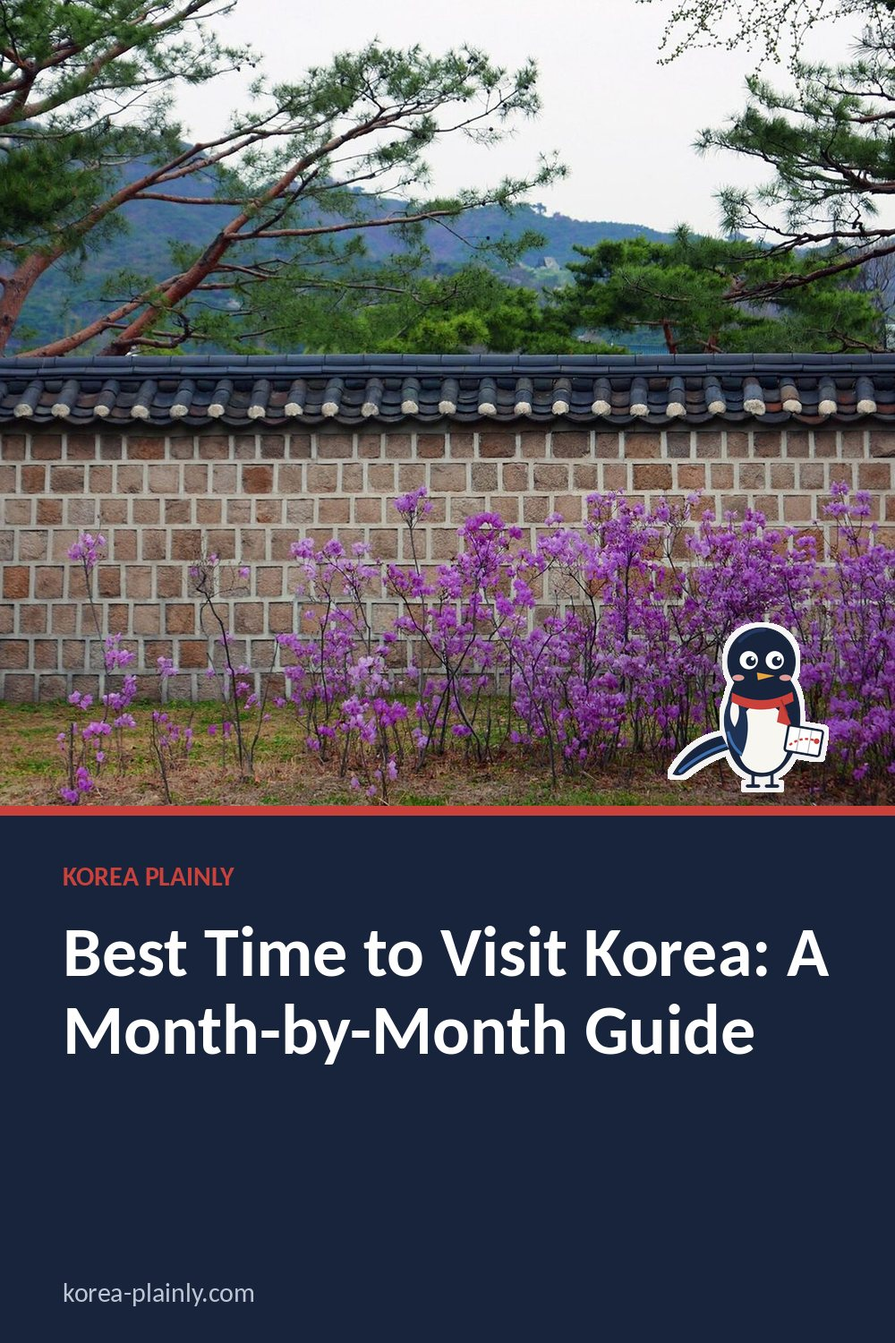
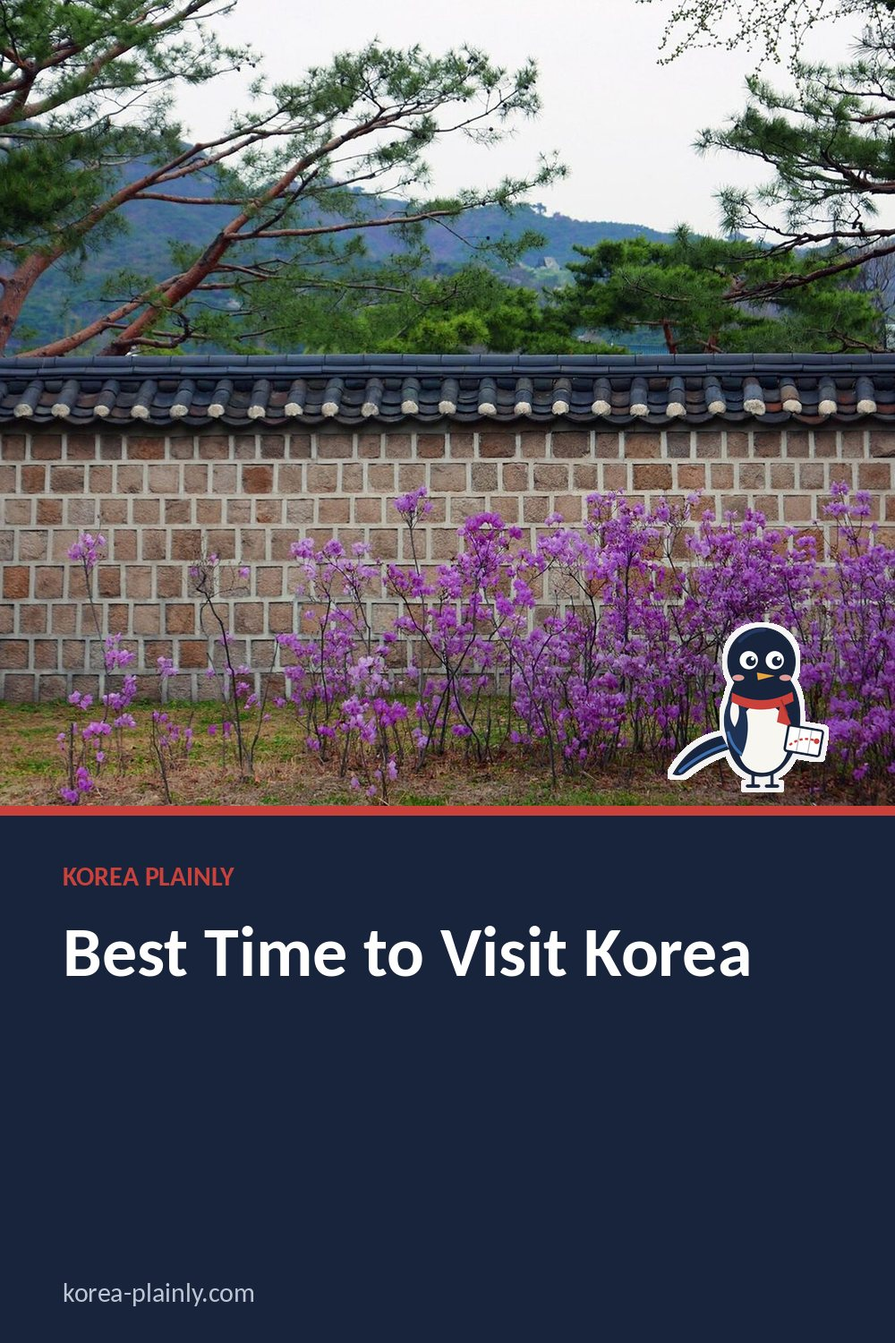
Best time guide: target 'what month is autumn in south korea'; topics: add Busan with kids gap
- best-time-to-visit-korea: new title/h1/meta, sections on when autumn and spring start,
  fine-dust tip, holiday closures, city weather differences; FAQ leads with the autumn question.
- korea-trip-package-vs-diy: fix cover alt text to describe the actual photo.
- topics.json: 'Things to Do in Busan with Kids' (keyword gap) moved to the front of unused topics.

Claude-Session: https://claude.ai/code/session_01MMQnqG6QkzgzGygJwpjXXF

Changed region(s): [[0.062, 0.736, 0.837, 0.7973], [0.837, 0.6747, 0.93, 0.736]]

diff --git a/best-time-to-visit-korea.html b/best-time-to-visit-korea.html
@@ -11,11 +11,11 @@
 >
 
 <link rel="stylesheet" href="style.css?v=20261015-1">
-<title>Best Time to Visit Korea: A Month-by-Month Guide | Korea Plainly</title>
+<title>Best Time to Visit Korea: Month-by-Month Guide and What Month Autumn Starts</title>
 
 <meta
   name="description"
-  content="When to visit South Korea: the best months for weather, blossoms, autumn leaves, festivals, skiing and lower prices, with a guide to every month and holidays to plan around."
+  content="Best months to visit South Korea, what month autumn starts, blossom and leaf timing, holidays to plan around and quieter months, with a guide to every month."
 >
 <link
   rel="canonical"
@@ -29,12 +29,12 @@
 
 <meta
   property="og:title"
-  content="Best Time to Visit Korea: A Month-by-Month Guide"
+  content="Best Time to Visit Korea: Month-by-Month Guide and What Month Autumn Starts"
 >
 
 <meta
   property="og:description"
-  content="When to visit South Korea: the best months for weather, blossoms, autumn leaves, festivals, skiing and lower prices, with a guide to every month and holidays to plan around."
+  content="Best months to visit South Korea, what month autumn starts, blossom and leaf timing, holidays to plan around and quieter months, with a guide to every month."
 >
 
 <meta
@@ -59,12 +59,12 @@
 
 <meta
   name="twitter:title"
-  content="Best Time to Visit Korea: A Month-by-Month Guide"
+  content="Best Time to Visit Korea: Month-by-Month Guide and What Month Autumn Starts"
 >
 
 <meta
   name="twitter:description"
-  content="When to visit South Korea: the best months for weather, blossoms, autumn leaves, festivals, skiing and lower prices, with a guide to every month and holidays to plan around."
+  content="Best months to visit South Korea, what month autumn starts, blossom and leaf timing, holidays to plan around and quieter months, with a guide to every month."
 >
 
 <meta
@@ -247,9 +247,9 @@ footer {
 <link rel="stylesheet" href="article.css?v=4">
 <link rel="stylesheet" href="https://fonts.googleapis.com/css2?family=DM+Sans:wght@400;500;600;700&family=Playfair+Display:ital,wght@0,600;1,600&display=swap">
 <link rel="icon" href="/favicon.svg" type="image/svg+xml">
-<script type="application/ld+json" id="kp-faq-ld">{"@context": "https://schema.org", "@type": "FAQPage", "mainEntity": [{"@type": "Question", "name": "What is the best month to visit Korea?", "acceptedAnswer": {"@type": "Answer", "text": "April, May and October are the favourites: comfortable weather, clear skies and blossoms or autumn colours. Late September and early November are great too."}}, {"@type": "Question", "name": "What is the cheapest time to visit Korea?", "acceptedAnswer": {"@type": "Answer", "text": "Usually January to early March (outside Seollal), June and late November, when demand is lower."}}, {"@type": "Question", "name": "When should I avoid visiting Korea?", "acceptedAnswer": {"@type": "Answer", "text": "Not really any month, but plan around Seollal and Chuseok if you want to travel between cities, and expect heat and rain in July and August."}}]}</script>
-<script type="application/ld+json" id="kp-article-ld">{"@context": "https://schema.org", "@type": "Article", "headline": "Best Time to Visit Korea: A Month-by-Month Guide", "description": "When to visit South Korea: the best months for weather, blossoms, autumn leaves, festivals, skiing and lower prices, with a guide to every month and holidays to plan around.", "image": ["https://korea-plainly.com/photo-best-time-to-visit-korea.jpg"], "datePublished": "2026-10-17", "dateModified": "2026-10-17", "author": {"@type": "Person", "name": "Jungsuk Kim", "url": "https://korea-plainly.com/about.html#author"}, "publisher": {"@type": "Organization", "name": "Korea Plainly", "url": "https://korea-plainly.com/"}, "mainEntityOfPage": "https://korea-plainly.com/best-time-to-visit-korea.html"}</script>
-<script type="application/ld+json" id="kp-breadcrumb-ld">{"@context": "https://schema.org", "@type": "BreadcrumbList", "itemListElement": [{"@type": "ListItem", "position": 1, "name": "Home", "item": "https://korea-plainly.com/"}, {"@type": "ListItem", "position": 2, "name": "Guides", "item": "https://korea-plainly.com/guides.html"}, {"@type": "ListItem", "position": 3, "name": "Travel Basics", "item": "https://korea-plainly.com/guides.html?category=travel"}, {"@type": "ListItem", "position": 4, "name": "Best Time to Visit Korea: A Month-by-Month Guide", "item": "https://korea-plainly.com/best-time-to-visit-korea.html"}]}</script>
+<script type="application/ld+json" id="kp-faq-ld">{"@context": "https://schema.org", "@type": "FAQPage", "mainEntity": [{"@type": "Question", "name": "What month is autumn in South Korea?", "acceptedAnswer": {"@type": "Answer", "text": "Autumn is September to November. It feels most like autumn from late September, October is usually the clearest and most comfortable month, and Seoul's leaves tend to peak in late October to early November."}}, {"@type": "Question", "name": "What is the best month to visit Korea?", "acceptedAnswer": {"@type": "Answer", "text": "April, May and October are the favourites for comfortable weather and blossoms or autumn colours. Late September and early November are great too, and often a little quieter."}}, {"@type": "Question", "name": "When should I avoid visiting Korea?", "acceptedAnswer": {"@type": "Answer", "text": "No month is a bad choice, but plan around Seollal and Chuseok if you want to travel between cities, and expect heavy rain in July and strong heat in August."}}]}</script>
+<script type="application/ld+json" id="kp-article-ld">{"@context": "https://schema.org", "@type": "Article", "headline": "Best Time to Visit Korea: Month-by-Month Guide and What Month Autumn Starts", "description": "Best months to visit South Korea, what month autumn starts, blossom and leaf timing, holidays to plan around and quieter months, with a guide to every month.", "image": ["https://korea-plainly.com/photo-best-time-to-visit-korea.jpg"], "datePublished": "2026-10-17", "dateModified": "2026-11-02", "author": {"@type": "Person", "name": "Jungsuk Kim", "url": "https://korea-plainly.com/about.html#author"}, "publisher": {"@type": "Organization", "name": "Korea Plainly", "url": "https://korea-plainly.com/"}, "mainEntityOfPage": "https://korea-plainly.com/best-time-to-visit-korea.html"}</script>
+<script type="application/ld+json" id="kp-breadcrumb-ld">{"@context": "https://schema.org", "@type": "BreadcrumbList", "itemListElement": [{"@type": "ListItem", "position": 1, "name": "Home", "item": "https://korea-plainly.com/"}, {"@type": "ListItem", "position": 2, "name": "Guides", "item": "https://korea-plainly.com/guides.html"}, {"@type": "ListItem", "position": 3, "name": "Travel Basics", "item": "https://korea-plainly.com/guides.html?category=travel"}, {"@type": "ListItem", "position": 4, "name": "Best Time to Visit Korea: Month-by-Month Guide and What Month Autumn Starts", "item": "https://korea-plainly.com/best-time-to-visit-korea.html"}]}</script>
 <meta property="article:published_time" content="2026-10-17">
 </head>
 
@@ -280,12 +280,12 @@ TRAVEL BASICS · PLANNING
 </div>
 
 <h1>
-Best Time to Visit Korea: A Month-by-Month Guide
+Best Time to Visit Korea: Month-by-Month Guide and What Month Autumn Starts
 </h1>
-<p class="kp-date" data-kp="date">By <a href="about.html#author">Jungsuk Kim</a>, Korea Plainly · Published <time datetime="2026-10-17">17 October 2026</time></p>
+<p class="kp-date" data-kp="date">By <a href="about.html#author">Jungsuk Kim</a>, Korea Plainly · Published <time datetime="2026-10-17">17 October 2026</time> · Updated <time datetime="2026-11-02">2 November 2026</time></p>
 
 <p class="dek">
-When to visit South Korea: the best months for weather, blossoms, autumn leaves, festivals, skiing and lower prices, with a guide to every month and holidays to plan around.
+Best months to visit South Korea, what month autumn starts, blossom and leaf timing, holidays to plan around and quieter months, with a guide to every month.
 </p>
 
 <img
@@ -297,51 +297,72 @@ When to visit South Korea: the best months for weather, blossoms, autumn leaves,
 
 <article>
 
-<p>Korea has four clear seasons, and each one changes the trip: blossoms in spring, beaches and heat in summer, red hills in autumn and snow and ski slopes in winter. Here is the short answer, then a quick look at every month with a link to its full guide.</p>
+<p>Korea has four distinct seasons, and the month you choose changes almost everything: what you wear, what you eat, how crowded the palaces are and even how much the hotel costs. Spring and autumn are the easy favourites, but every month has something going for it. Here is the short answer, what month autumn and spring actually arrive, and a quick look at all twelve months with links to their full guides.</p>
 
-<nav class="kp-toc" data-kp="toc" aria-label="On this page"><p>On this page</p><ol><li><a href="#the-short-answer">The short answer</a></li><li><a href="#month-by-month">Month by month</a></li><li><a href="#holidays-to-plan-around">Holidays to plan around</a></li><li><a href="#weather-at-a-glance">Weather at a glance</a></li><li><a href="#planning-your-trip">Planning your trip</a></li><li><a href="#faq">FAQ</a></li></ol></nav>
+<nav class="kp-toc" data-kp="toc" aria-label="On this page"><p>On this page</p><ol><li><a href="#the-short-answer">The short answer</a></li><li><a href="#what-month-is-autumn-in-south-korea">What month is autumn in South Korea?</a></li><li><a href="#when-does-spring-start">When does spring start?</a></li><li><a href="#month-by-month">Month by month</a></li><li><a href="#holidays-to-plan-around">Holidays to plan around</a></li><li><a href="#weather-at-a-glance">Weather at a glance</a></li><li><a href="#planning-your-trip">Planning your trip</a></li><li><a href="#faq">FAQ</a></li></ol></nav>
 <h2 id="the-short-answer">The short answer</h2>
 <ul>
-<li><strong>Best overall:</strong> spring (April to early June) and autumn (mid September to mid November). Comfortable, dry and beautiful.</li>
-<li><strong>Cherry blossoms:</strong> late March in the south, early to mid April in Seoul.</li>
-<li><strong>Autumn leaves:</strong> mid October in the mountains, late October to mid November in the cities.</li>
-<li><strong>Beaches:</strong> July and August, if you can handle the heat.</li>
-<li><strong>Skiing and winter festivals:</strong> late December to February.</li>
-<li><strong>Lower prices and fewer crowds:</strong> March, June, November and January to February, avoiding the big holidays.</li>
+<li><strong>Best overall:</strong> mid April to May, and late September to early November. Mild days, low humidity and mostly clear skies.</li>
+<li><strong>Cherry blossoms:</strong> late March in the south (Busan, Jinhae, Jeju), early April in Seoul.</li>
+<li><strong>Autumn leaves:</strong> mid October in the high mountains, late October to mid November in Seoul and the southern cities.</li>
+<li><strong>Beaches and summer festivals:</strong> July and August, if you can handle heat and humidity.</li>
+<li><strong>Snow, skiing and ice festivals:</strong> late December to February.</li>
+<li><strong>Quieter and often cheaper:</strong> March, June, late November and January to early February, outside the big holidays.</li>
 </ul>
+
+<h2 id="what-month-is-autumn-in-south-korea">What month is autumn in South Korea?</h2>
+<p>Officially, autumn in South Korea runs from <strong>September to November</strong>, but it does not feel like autumn on the first of September. Early September is often still warm and sticky, and typhoons can brush the south. The real change usually comes in the second half of September, when the humidity drops and mornings turn fresh.</p>
+<p>October is the heart of the season: crisp, sunny and rarely rainy, which is why many Koreans call it the best month of the year. Leaves turn first on high peaks such as Seoraksan (usually mid October) and then work their way down and south. In Seoul, the ginkgo trees and palace maples are usually at their best from late October into the first week or two of November. By late November, the trees are mostly bare and Seoul's mornings can drop close to freezing.</p>
+<p>If autumn colours are the reason for your trip, aim for the last week of October or the first week of November in Seoul, and check our <a href="korea-autumn-foliage-2026.html">autumn foliage guide</a> for where to go. Timing can shift by a week or more from year to year.</p>
+
+<h2 id="when-does-spring-start">When does spring start?</h2>
+<p>Spring runs roughly from <strong>March to May</strong>. March is still cool, especially in Seoul, where you will want a proper jacket. Blossoms move north through the country: forsythia and plum first, then cherry blossoms in late March in the south and around the first ten days of April in Seoul. May is warm, green and settled, though sunny days can reach the high 20s°C by the end of the month.</p>
+<p>One thing locals check in spring is the fine dust (<em>misemeonji</em>) forecast. Some days in March and April are hazy, and many people wear a mask outdoors when the reading is poor. Weather apps and Naver show the daily level. See our <a href="korea-cherry-blossom-2027.html">cherry blossom guide</a> for the best spots and expected timing.</p>
 
 <h2 id="month-by-month">Month by month</h2>
 <ul>
-<li><a href="korea-in-january.html"><strong>January</strong></a>: the coldest month. Dry, sunny and freezing; ice fishing festivals and skiing.</li>
+<li><a href="korea-in-january.html"><strong>January</strong></a>: the coldest month. Dry, sunny and freezing in Seoul; ice fishing festivals and skiing.</li>
 <li><a href="korea-in-february.html"><strong>February</strong></a>: still cold, with the Seollal holiday and the last of the ski season.</li>
-<li><a href="korea-in-march.html"><strong>March</strong></a>: winter turns to spring; first plum and cherry blossoms in the south.</li>
+<li><a href="korea-in-march.html"><strong>March</strong></a>: winter turns to spring; first blossoms in the south, chilly evenings in Seoul.</li>
 <li><a href="korea-in-april.html"><strong>April</strong></a>: cherry blossom season and mild days; busy but beautiful.</li>
 <li><a href="korea-in-may.html"><strong>May</strong></a>: warm, green and sunny, with lantern festivals for Buddha's Birthday.</li>
-<li><a href="korea-in-june.html"><strong>June</strong></a>: early summer; pleasant at first, then humid as the rainy season starts.</li>
+<li><a href="korea-in-june.html"><strong>June</strong></a>: pleasant at first, then humid as the rainy season (<em>jangma</em>) usually starts late in the month.</li>
 <li><a href="korea-in-july.html"><strong>July</strong></a>: monsoon rain, then heat; beaches and summer festivals.</li>
-<li><a href="korea-in-august.html"><strong>August</strong></a>: the hottest and busiest holiday month; typhoons possible.</li>
+<li><a href="korea-in-august.html"><strong>August</strong></a>: the hottest and busiest domestic holiday month; typhoons possible.</li>
 <li><a href="korea-in-september.html"><strong>September</strong></a>: the heat fades; the Chuseok harvest holiday.</li>
-<li><a href="korea-in-october.html"><strong>October</strong></a>: crisp, clear and colourful; many festivals.</li>
+<li><a href="korea-in-october.html"><strong>October</strong></a>: crisp, clear and colourful; the busiest festival month.</li>
 <li><a href="korea-in-november.html"><strong>November</strong></a>: peak autumn leaves in the cities, then the first cold days.</li>
 <li><a href="korea-in-december.html"><strong>December</strong></a>: Christmas lights, winter markets and the first ski days.</li>
 </ul>
 
 <h2 id="holidays-to-plan-around">Holidays to plan around</h2>
-<p>The two big family holidays, Seollal (Lunar New Year) and Chuseok (the harvest festival), move with the lunar calendar. In 2027, Seollal is from 6 to 9 February and Chuseok from 14 to 16 September. Trains sell out, roads are jammed and some small shops close, though big cities are quieter than usual. Early October and the first days of May can also be busy because of holidays in Korea and neighbouring countries. See our <a href="korea-festivals.html">festival calendar</a> for events.</p>
+<p>The two big family holidays, Seollal (Lunar New Year) and Chuseok (the harvest festival), move with the lunar calendar. In 2027, the Seollal holiday runs from 6 to 9 February and Chuseok from 14 to 16 September. During these days:</p>
+<ul>
+<li>KTX and express bus tickets between cities sell out weeks ahead, and motorways are jammed.</li>
+<li>Many small family restaurants and traditional market stalls close for a day or more.</li>
+<li>Palaces, big department stores, convenience stores and most chain cafés stay open, and central Seoul is pleasantly quiet.</li>
+</ul>
+<p>Long weekends also matter. When a public holiday falls next to a weekend, Koreans travel, and places like Jeju, Gangneung and Gyeongju fill up. Early October and the start of May can also be busy because of holidays in China and Japan. Our <a href="seollal-travel-tips.html">Seollal travel tips</a> explain what to expect, and the <a href="korea-festivals.html">festival calendar</a> shows what is on.</p>
 
 <h2 id="weather-at-a-glance">Weather at a glance</h2>
-<p>Summers are hot, humid and rainy, winters cold and dry, and spring and autumn short and lovely. Busan and Jeju are milder than Seoul; the mountains of Gangwon are the coldest. For temperatures and what to wear, see our <a href="korea-weather-by-season.html">seasons and weather guide</a> and <a href="korea-packing-list.html">packing list</a>.</p>
+<ul>
+<li><strong>Seoul</strong> has the widest range: well below freezing on January mornings and over 30°C on August afternoons.</li>
+<li><strong>Busan</strong> is milder in winter and breezier in summer, and it rarely snows.</li>
+<li><strong>Jeju</strong> is the mildest in winter but windy and changeable; rain can come and go in an hour.</li>
+<li><strong>Gangwon's mountains</strong> (Pyeongchang, Seoraksan) are the coldest and snowiest, which is why the ski resorts are there.</li>
+</ul>
+<p>Indoors is a different story: buildings and the subway are well heated in winter and strongly air-conditioned in summer, so layers work better than one heavy coat. For temperatures and what to wear, see our <a href="korea-weather-by-season.html">seasons and weather guide</a> and the <a href="korea-packing-list.html">packing list</a>.</p>
 
 <h2 id="planning-your-trip">Planning your trip</h2>
-<p>Once you have picked your month, our <a href="start-here.html">start here guide</a> walks you through the basics, and our <a href="korea-7-day-itinerary.html">7-day</a> and <a href="korea-10-day-itinerary.html">10-day itineraries</a> show how to fit it all in. Our <a href="korea-trip-cost-calculator.html">trip cost calculator</a> helps with the budget.</p>
+<p>For a first visit, book flights and hotels early for April and October, as these are the most popular months with visitors from abroad as well as Koreans. If you are flexible, the weeks just before or after the peaks, such as late May or late November, give you much of the same weather with fewer crowds. Once you have picked your month, our <a href="start-here.html">start here guide</a> walks you through the basics, and our <a href="korea-7-day-itinerary.html">7-day</a> and <a href="korea-10-day-itinerary.html">10-day itineraries</a> show how to fit it all in.</p>
 <section class="faq">
 <h2 id="faq">FAQ</h2>
+<h3>What month is autumn in South Korea?</h3>
+<p>Autumn is September to November. It feels most like autumn from late September, October is usually the clearest and most comfortable month, and Seoul's leaves tend to peak in late October to early November.</p>
 <h3>What is the best month to visit Korea?</h3>
-<p>April, May and October are the favourites: comfortable weather, clear skies and blossoms or autumn colours. Late September and early November are great too.</p>
-<h3>What is the cheapest time to visit Korea?</h3>
-<p>Usually January to early March (outside Seollal), June and late November, when demand is lower.</p>
+<p>April, May and October are the favourites for comfortable weather and blossoms or autumn colours. Late September and early November are great too, and often a little quieter.</p>
 <h3>When should I avoid visiting Korea?</h3>
-<p>Not really any month, but plan around Seollal and Chuseok if you want to travel between cities, and expect heat and rain in July and August.</p>
+<p>No month is a bad choice, but plan around Seollal and Chuseok if you want to travel between cities, and expect heavy rain in July and strong heat in August.</p>
 </section>
 
 <a class="back" href="guides.html">← Back to all guides</a>

diff --git a/korea-trip-package-vs-diy.html b/korea-trip-package-vs-diy.html
@@ -245,12 +245,12 @@ footer {
 <script async src="https://pagead2.googlesyndication.com/pagead/js/adsbygoogle.js?client=ca-pub-7379462117232471" crossorigin="anonymous"></script>
 <style>.kp-date{font-size:13px;color:#62635f;margin:-6px 0 22px}</style>
 <script type="application/ld+json" id="kp-faq-ld">{"@context": "https://schema.org", "@type": "FAQPage", "mainEntity": [{"@type": "Question", "name": "What should I check before booking a Korea trip package?", "acceptedAnswer": {"@type": "Answer", "text": "Compare what the package actually includes, such as accommodation, transport, guided activities, and free time. Check the itinerary pace and whether it matches your interests. Packages differ, so read the details carefully and confirm what you would need to arrange yourself before deciding."}}, {"@type": "Question", "name": "Can I combine a tour package with independent travel?", "acceptedAnswer": {"@type": "Answer", "text": "Yes. You could book a guided experience for places or activities that feel difficult to arrange alone, then plan the rest of your trip independently. Check whether the package dates and meeting points fit your itinerary, and leave enough time for travel between destinations."}}, {"@type": "Question", "name": "How do I decide which option suits my first visit?", "acceptedAnswer": {"@type": "Answer", "text": "Consider how comfortable you are arranging transport, accommodation, and daily activities in an unfamiliar place. A package may suit you if you prefer structured plans and support; independent planning may suit you if you value flexibility. If you are unsure, compare a few itineraries with the trip you want."}}]}</script>
-<script type="application/ld+json" id="kp-article-ld">{"@context": "https://schema.org", "@type": "Article", "headline": "Korea Trip Packages vs Planning It Yourself: Which Suits a First Visit", "description": "Compare guided Korea packages with independent travel, from Seoul transport and hotel locations to day trips and a practical hybrid plan.", "image": ["https://korea-plainly.com/seoul.jpg"], "datePublished": "2026-11-02", "dateModified": "2026-11-02", "author": {"@type": "Person", "name": "Jungsuk Kim", "url": "https://korea-plainly.com/about.html#author"}, "publisher": {"@type": "Organization", "name": "Korea Plainly", "url": "https://korea-plainly.com/"}, "mainEntityOfPage": "https://korea-plainly.com/korea-trip-package-vs-diy.html"}</script>
-<script type="application/ld+json" id="kp-breadcrumb-ld">{"@context": "https://schema.org", "@type": "BreadcrumbList", "itemListElement": [{"@type": "ListItem", "position": 1, "name": "Home", "item": "https://korea-plainly.com/"}, {"@type": "ListItem", "position": 2, "name": "Guides", "item": "https://korea-plainly.com/guides.html"}, {"@type": "ListItem", "position": 3, "name": "Travel Basics", "item": "https://korea-plainly.com/guides.html?category=travel"}, {"@type": "ListItem", "position": 4, "name": "Korea Trip Packages vs Planning It Yourself: Which Suits a First Visit", "item": "https://korea-plainly.com/korea-trip-package-vs-diy.html"}]}</script>
-<meta property="article:published_time" content="2026-11-02">
 <link rel="stylesheet" href="article.css?v=4">
 <link rel="stylesheet" href="https://fonts.googleapis.com/css2?family=DM+Sans:wght@400;500;600;700&family=Playfair+Display:ital,wght@0,600;1,600&display=swap">
 <link rel="icon" href="/favicon.svg" type="image/svg+xml">
+<script type="application/ld+json" id="kp-article-ld">{"@context": "https://schema.org", "@type": "Article", "headline": "Korea Trip Packages vs Planning It Yourself: Which Suits a First Visit", "description": "Compare guided Korea packages with independent travel, from Seoul transport and hotel locations to day trips and a practical hybrid plan.", "image": ["https://korea-plainly.com/seoul.jpg"], "datePublished": "2026-11-02", "dateModified": "2026-11-02", "author": {"@type": "Person", "name": "Jungsuk Kim", "url": "https://korea-plainly.com/about.html#author"}, "publisher": {"@type": "Organization", "name": "Korea Plainly", "url": "https://korea-plainly.com/"}, "mainEntityOfPage": "https://korea-plainly.com/korea-trip-package-vs-diy.html"}</script>
+<script type="application/ld+json" id="kp-breadcrumb-ld">{"@context": "https://schema.org", "@type": "BreadcrumbList", "itemListElement": [{"@type": "ListItem", "position": 1, "name": "Home", "item": "https://korea-plainly.com/"}, {"@type": "ListItem", "position": 2, "name": "Guides", "item": "https://korea-plainly.com/guides.html"}, {"@type": "ListItem", "position": 3, "name": "Travel Basics", "item": "https://korea-plainly.com/guides.html?category=travel"}, {"@type": "ListItem", "position": 4, "name": "Korea Trip Packages vs Planning It Yourself: Which Suits a First Visit", "item": "https://korea-plainly.com/korea-trip-package-vs-diy.html"}]}</script>
+<meta property="article:published_time" content="2026-11-02">
 </head>
 
 <body class="kp-article">
@@ -291,7 +291,7 @@ Compare guided Korea packages with independent travel, from Seoul transport and 
 <img
   class="cover"
   src="seoul.jpg"
-  alt="Visitors comparing a Seoul subway map with a guided tour itinerary" srcset="img/seoul.40adc166.w480.webp 480w, img/seoul.40adc166.w800.webp 800w, img/seoul.40adc166.w1200.webp 1200w, seoul.jpg 1600w" sizes="(max-width: 860px) 100vw, 820px" fetchpriority="high"
+  alt="Seoul skyline at dusk with the Han River and N Seoul Tower" srcset="img/seoul.40adc166.w480.webp 480w, img/seoul.40adc166.w800.webp 800w, img/seoul.40adc166.w1200.webp 1200w, seoul.jpg 1600w" sizes="(max-width: 860px) 100vw, 820px" fetchpriority="high"
 >
 
 <article>

diff --git a/korea-money-exchange.html b/korea-money-exchange.html
@@ -391,7 +391,7 @@ Korean money to USD made easy: how to turn won prices into dollars in your head,
 <!-- /kp-kkachi -->
 <section class="related-guides">
 <h2>Related guides</h2>
-<div class="kp-related"><a href="korea-autumn-foliage-2026.html"><img src="photo-korea-autumn-foliage-2026.jpg" alt="" loading="lazy" srcset="img/photo-korea-autumn-foliage-2026.c3ffa5d8.w480.webp 480w, img/photo-korea-autumn-foliage-2026.c3ffa5d8.w800.webp 800w, img/photo-korea-autumn-foliage-2026.c3ffa5d8.w1200.webp 1200w, photo-korea-autumn-foliage-2026.jpg 1600w" sizes="(max-width: 600px) 100vw, (max-width: 1000px) 50vw, 400px" decoding="async"><span>Autumn Foliage in Korea 2026: When and Where to See It</span></a><a href="seoul-night-views.html"><img src="photo-seoul-night-views.jpg" alt="" loading="lazy" srcset="img/photo-seoul-night-views.fd11dd30.w480.webp 480w, img/photo-seoul-night-views.fd11dd30.w800.webp 800w, img/photo-seoul-night-views.fd11dd30.w1200.webp 1200w, photo-seoul-night-views.jpg 1600w" sizes="(max-width: 600px) 100vw, (max-width: 1000px) 50vw, 400px" decoding="async"><span>Best Night Views in Seoul: Where to See the City Lights</span></a><a href="best-time-to-visit-korea.html"><img src="photo-best-time-to-visit-korea.jpg" alt="" loading="lazy" srcset="img/photo-best-time-to-visit-korea.f023d153.w480.webp 480w, img/photo-best-time-to-visit-korea.f023d153.w800.webp 800w, img/photo-best-time-to-visit-korea.f023d153.w1200.webp 1200w, photo-best-time-to-visit-korea.jpg 1600w" sizes="(max-width: 600px) 100vw, (max-width: 1000px) 50vw, 400px" decoding="async"><span>Best Time to Visit Korea: A Month-by-Month Guide</span></a></div>
+<div class="kp-related"><a href="korea-autumn-foliage-2026.html"><img src="photo-korea-autumn-foliage-2026.jpg" alt="" loading="lazy" srcset="img/photo-korea-autumn-foliage-2026.c3ffa5d8.w480.webp 480w, img/photo-korea-autumn-foliage-2026.c3ffa5d8.w800.webp 800w, img/photo-korea-autumn-foliage-2026.c3ffa5d8.w1200.webp 1200w, photo-korea-autumn-foliage-2026.jpg 1600w" sizes="(max-width: 600px) 100vw, (max-width: 1000px) 50vw, 400px" decoding="async"><span>Autumn Foliage in Korea 2026: When and Where to See It</span></a><a href="seoul-night-views.html"><img src="photo-seoul-night-views.jpg" alt="" loading="lazy" srcset="img/photo-seoul-night-views.fd11dd30.w480.webp 480w, img/photo-seoul-night-views.fd11dd30.w800.webp 800w, img/photo-seoul-night-views.fd11dd30.w1200.webp 1200w, photo-seoul-night-views.jpg 1600w" sizes="(max-width: 600px) 100vw, (max-width: 1000px) 50vw, 400px" decoding="async"><span>Best Night Views in Seoul: Where to See the City Lights</span></a><a href="best-time-to-visit-korea.html"><img src="photo-best-time-to-visit-korea.jpg" alt="" loading="lazy" srcset="img/photo-best-time-to-visit-korea.f023d153.w480.webp 480w, img/photo-best-time-to-visit-korea.f023d153.w800.webp 800w, img/photo-best-time-to-visit-korea.f023d153.w1200.webp 1200w, photo-best-time-to-visit-korea.jpg 1600w" sizes="(max-width: 600px) 100vw, (max-width: 1000px) 50vw, 400px" decoding="async"><span>Best Time to Visit Korea: Month-by-Month Guide and What Month Autumn Starts</span></a></div>
 </section>
 
 </article>

diff --git a/olive-young-korea-guide.html b/olive-young-korea-guide.html
@@ -386,7 +386,7 @@ How to shop at Olive Young in Korea: flagship stores in Myeongdong and Gangnam, 
 <!-- /kp-kkachi -->
 <section class="related-guides">
 <h2>Related guides</h2>
-<div class="kp-related"><a href="best-time-to-visit-korea.html"><img src="photo-best-time-to-visit-korea.jpg" alt="" loading="lazy" srcset="img/photo-best-time-to-visit-korea.f023d153.w480.webp 480w, img/photo-best-time-to-visit-korea.f023d153.w800.webp 800w, img/photo-best-time-to-visit-korea.f023d153.w1200.webp 1200w, photo-best-time-to-visit-korea.jpg 1600w" sizes="(max-width: 600px) 100vw, (max-width: 1000px) 50vw, 400px" decoding="async"><span>Best Time to Visit Korea: A Month-by-Month Guide</span></a><a href="korea-recycling-guide.html"><img src="photo-korea-recycling-guide.jpg" alt="" loading="lazy" srcset="img/photo-korea-recycling-guide.4f8312e4.w480.webp 480w, img/photo-korea-recycling-guide.4f8312e4.w800.webp 800w, img/photo-korea-recycling-guide.4f8312e4.w1200.webp 1200w, photo-korea-recycling-guide.jpg 1600w" sizes="(max-width: 600px) 100vw, (max-width: 1000px) 50vw, 400px" decoding="async"><span>How Korean Recycling Works for Visitors</span></a><a href="korea-travel-budget.html"><img src="photo-korea-travel-budget.jpg" alt="" loading="lazy" srcset="img/photo-korea-travel-budget.71e874bd.w480.webp 480w, img/photo-korea-travel-budget.71e874bd.w800.webp 800w, img/photo-korea-travel-budget.71e874bd.w1200.webp 1200w, photo-korea-travel-budget.jpg 1600w" sizes="(max-width: 600px) 100vw, (max-width: 1000px) 50vw, 400px" decoding="async"><span>How Much Does a Trip to Korea Cost? A Daily Budget Guide</span></a></div>
+<div class="kp-related"><a href="best-time-to-visit-korea.html"><img src="photo-best-time-to-visit-korea.jpg" alt="" loading="lazy" srcset="img/photo-best-time-to-visit-korea.f023d153.w480.webp 480w, img/photo-best-time-to-visit-korea.f023d153.w800.webp 800w, img/photo-best-time-to-visit-korea.f023d153.w1200.webp 1200w, photo-best-time-to-visit-korea.jpg 1600w" sizes="(max-width: 600px) 100vw, (max-width: 1000px) 50vw, 400px" decoding="async"><span>Best Time to Visit Korea: Month-by-Month Guide and What Month Autumn Starts</span></a><a href="korea-recycling-guide.html"><img src="photo-korea-recycling-guide.jpg" alt="" loading="lazy" srcset="img/photo-korea-recycling-guide.4f8312e4.w480.webp 480w, img/photo-korea-recycling-guide.4f8312e4.w800.webp 800w, img/photo-korea-recycling-guide.4f8312e4.w1200.webp 1200w, photo-korea-recycling-guide.jpg 1600w" sizes="(max-width: 600px) 100vw, (max-width: 1000px) 50vw, 400px" decoding="async"><span>How Korean Recycling Works for Visitors</span></a><a href="korea-travel-budget.html"><img src="photo-korea-travel-budget.jpg" alt="" loading="lazy" srcset="img/photo-korea-travel-budget.71e874bd.w480.webp 480w, img/photo-korea-travel-budget.71e874bd.w800.webp 800w, img/photo-korea-travel-budget.71e874bd.w1200.webp 1200w, photo-korea-travel-budget.jpg 1600w" sizes="(max-width: 600px) 100vw, (max-width: 1000px) 50vw, 400px" decoding="async"><span>How Much Does a Trip to Korea Cost? A Daily Budget Guide</span></a></div>
 </section>
 
 </article>

diff --git a/guides.html b/guides.html
@@ -2010,11 +2010,11 @@ TRAVEL BASICS · NEW
 </small>
 
 <h2>
-Best Time to Visit Korea: A Month-by-Month Guide
+Best Time to Visit Korea: Month-by-Month Guide and What Month Autumn Starts
 </h2>
 
 <p>
-When to visit South Korea: the best months for weather, blossoms, autumn leaves, festivals, skiing and lower prices, with a guide to every month and holidays to plan around.
+Best months to visit South Korea, what month autumn starts, blossom and leaf timing, holidays to plan around and quieter months, with a guide to every month.
 </p>
 
 <span class="guide-arrow">
